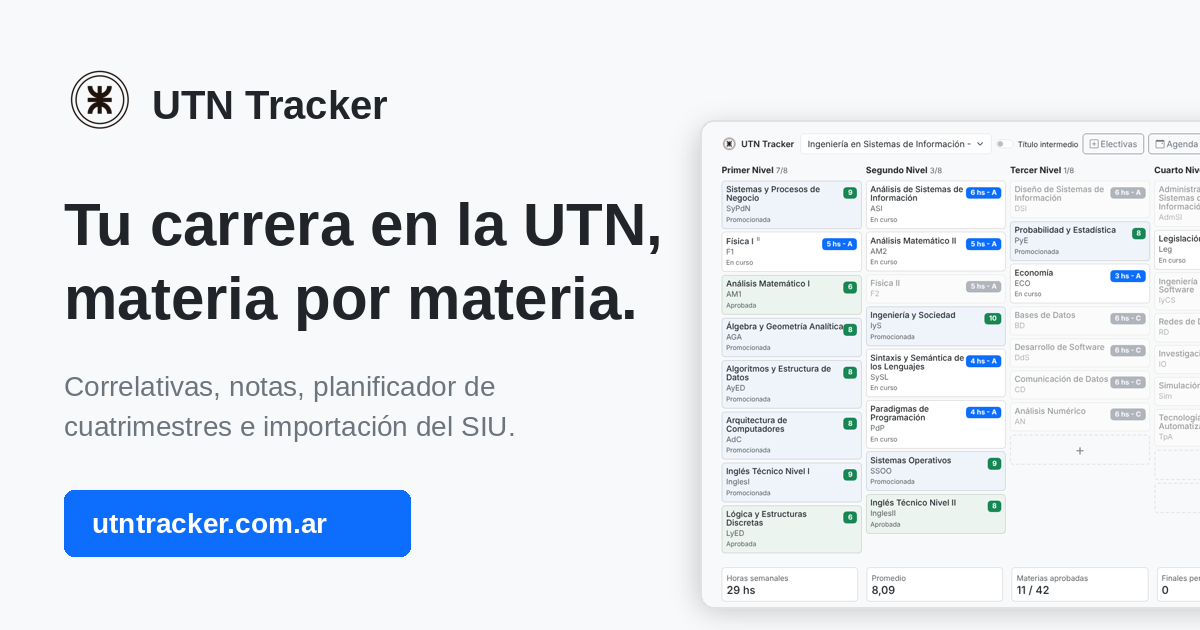
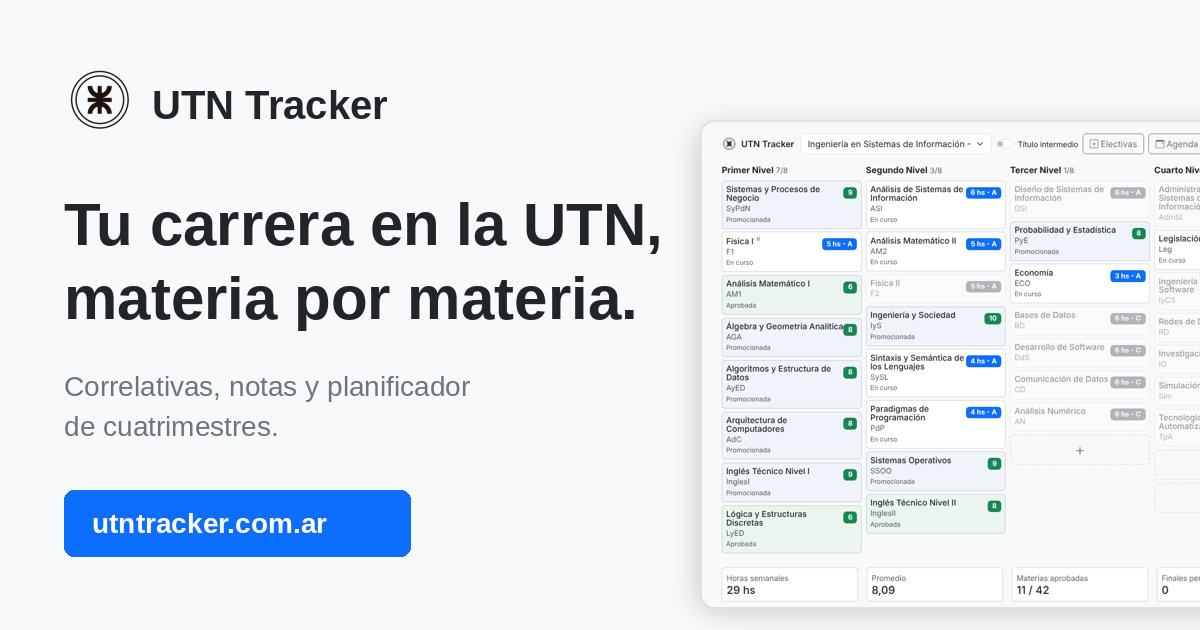
Landing: sacar la importación del SIU como función destacada
Claude-Session: https://claude.ai/code/session_01Rmz4YoQs6Pi6JX4twLjFxo

Changed region(s): [[0.0617, 0.6635, 0.4317, 0.6937], [0.2467, 0.6032, 0.4317, 0.6333]]

diff --git a/site/index.html b/site/index.html
@@ -4,7 +4,7 @@
 		<meta charset="utf-8">
 		<meta name="viewport" content="width=device-width, initial-scale=1">
 		<title>UTN Tracker · Seguí tu carrera en la UTN: correlativas, notas y planificador</title>
-		<meta name="description" content="Organizá tu carrera en la UTN: importá tu historia académica del SIU Guaraní, mirá qué materias podés cursar según tus correlativas, planificá los próximos cuatrimestres y calculá cuándo te recibís. Gratis.">
+		<meta name="description" content="Organizá tu carrera en la UTN: cargá tus notas, mirá qué materias podés cursar según tus correlativas, planificá los próximos cuatrimestres y calculá cuándo te recibís. Gratis.">
 		<link rel="canonical" href="https://utntracker.com.ar/">
 		<meta name="color-scheme" content="light dark">
 		<meta name="theme-color" content="#f8f9fa" media="(prefers-color-scheme: light)">
@@ -16,7 +16,7 @@
 		<meta property="og:locale" content="es_AR">
 		<meta property="og:url" content="https://utntracker.com.ar/">
 		<meta property="og:title" content="UTN Tracker · Tu carrera en la UTN, materia por materia">
-		<meta property="og:description" content="Importá tu historia académica del SIU, mirá tus correlativas y planificá cuándo te recibís. Gratis.">
+		<meta property="og:description" content="Mirá tus correlativas, planificá los próximos cuatrimestres y calculá cuándo te recibís. Gratis.">
 		<meta property="og:image" content="https://utntracker.com.ar/assets/img/og.png">
 		<meta property="og:image:width" content="1200">
 		<meta property="og:image:height" content="630">
@@ -44,7 +44,7 @@
 					"applicationCategory": "EducationalApplication",
 					"operatingSystem": "Web",
 					"inLanguage": "es-AR",
-					"description": "Panel para estudiantes de la UTN: correlativas, notas, planificador de cuatrimestres, horario y agenda de parciales, con importación de la historia académica del SIU Guaraní.",
+					"description": "Panel para estudiantes de la UTN: correlativas, notas, planificador de cuatrimestres, horario y agenda de parciales.",
 					"offers": { "@type": "Offer", "price": "0", "priceCurrency": "ARS" }
 				},
 				{
@@ -52,8 +52,7 @@
 					"mainEntity": [
 						{ "@type": "Question", "name": "¿UTN Tracker es gratis?", "acceptedAnswer": { "@type": "Answer", "text": "Sí. Entrás con tu cuenta de Google y listo." } },
 						{ "@type": "Question", "name": "¿Es una app oficial de la UTN?", "acceptedAnswer": { "@type": "Answer", "text": "No. Es un proyecto independiente hecho por estudiantes. Tus notas oficiales siguen siendo las del SIU Guaraní." } },
-						{ "@type": "Question", "name": "¿Qué pasa con mi historia académica del SIU?", "acceptedAnswer": { "@type": "Answer", "text": "El PDF se lee en tu navegador y no se sube a ningún servidor. Solo se guardan las materias y notas que confirmás." } },
-						{ "@type": "Question", "name": "¿Sirve para cualquier facultad regional?", "acceptedAnswer": { "@type": "Answer", "text": "Los planes de estudio son los mismos en todas las regionales. La importación del SIU está probada con el autogestión de la FRBA." } },
+						{ "@type": "Question", "name": "¿Sirve para cualquier facultad regional?", "acceptedAnswer": { "@type": "Answer", "text": "Los planes de estudio son los mismos en todas las regionales." } },
 						{ "@type": "Question", "name": "¿Cómo sabe qué materias puedo cursar?", "acceptedAnswer": { "@type": "Answer", "text": "Usa las correlativas del plan de estudios. Con lo que tenés aprobado y regularizado, marca qué materias podés cursar el próximo cuatrimestre." } },
 						{ "@type": "Question", "name": "¿Puedo compartir mi progreso?", "acceptedAnswer": { "@type": "Answer", "text": "Sí. Podés activar un perfil público con un link para compartir. Viene apagado." } }
 					]
@@ -82,7 +81,7 @@
 					<div class="col-lg-6 d-grid gap-3">
 						<span class="eyebrow">Para estudiantes de la UTN</span>
 						<h1>Tu carrera en la UTN, materia por materia.</h1>
-						<p class="lead text-body-secondary mb-1">Cargá tu historia académica del SIU en un minuto y mirá qué tenés aprobado, qué podés cursar según tus correlativas y cuándo te recibís si seguís a este ritmo.</p>
+						<p class="lead text-body-secondary mb-1">Cargá tus materias y notas, y mirá qué tenés aprobado, qué podés cursar según tus correlativas y cuándo te recibís si seguís a este ritmo.</p>
 						<div class="d-flex flex-wrap gap-2">
 							<a class="btn btn-primary btn-lg" href="https://app.utntracker.com.ar"><i class="bi bi-google me-2" aria-hidden="true"></i>Entrar con Google</a>
 							<a class="btn btn-outline-secondary btn-lg" href="#funciones">Ver cómo funciona</a>
@@ -121,29 +120,6 @@
 				</div>
 			</section>
 
-			<section class="section section-band" aria-labelledby="siu-titulo">
-				<div class="container">
-					<div class="row g-4 g-lg-5 align-items-center">
-						<div class="col-lg-5 d-grid gap-3">
-							<span class="eyebrow">Importar del SIU Guaraní</span>
-							<h2 id="siu-titulo" class="fw-bold">No cargues las notas a mano.</h2>
-							<ol class="steps">
-								<li><p class="mb-0"><strong>Descargá tu historia académica</strong> desde el autogestión del SIU, con el filtro en «Todos».</p></li>
-								<li><p class="mb-0"><strong>Subí el PDF</strong> a UTN Tracker. Detecta las materias aprobadas, promocionadas, regularizadas y en curso, con sus notas y recursadas.</p></li>
-								<li><p class="mb-0"><strong>Revisá la vista previa</strong> y confirmá. Tu tablero queda armado.</p></li>
-							</ol>
-							<div class="alert alert-success d-flex gap-2 mb-0" role="note">
-								<i class="bi bi-shield-lock" aria-hidden="true"></i>
-								<div>El PDF se lee en tu navegador. No se sube a ningún servidor.</div>
-							</div>
-						</div>
-						<div class="col-lg-7">
-							<figure class="shot"><img src="/assets/img/siu.webp" width="1200" height="771" loading="lazy" alt="Vista previa de la importación del SIU, con las materias detectadas y su estado antes de confirmar"></figure>
-						</div>
-					</div>
-				</div>
-			</section>
-
 			<section class="section" id="funciones" aria-labelledby="funciones-titulo">
 				<div class="container">
 					<div class="mb-4" style="max-width: 44rem">
@@ -158,7 +134,7 @@
 							<h3 class="h4 fw-semibold mb-0">Correlativas y estado de cada materia</h3>
 							<p class="text-body-secondary mb-0">Cargá parciales, recuperatorios, TPs y finales. UTN Tracker calcula solo si la materia queda promocionada, regularizada o aprobada, y te muestra qué podés cursar el próximo cuatrimestre.</p>
 						</div>
-						<div class="col-lg-7"><figure class="shot"><img src="/assets/img/tablero.webp" width="1200" height="771" loading="lazy" alt="Tablero con las materias de Ingeniería en Sistemas K23 por nivel, con horas semanales, promedio y materias aprobadas"></figure></div>
+						<div class="col-lg-7"><figure class="shot"><img src="/assets/img/tablero.webp" width="1200" height="696" loading="lazy" alt="Tablero con las materias de Ingeniería en Sistemas K23 por nivel, con horas semanales, promedio y materias aprobadas"></figure></div>
 					</article>
 
 					<article class="feature row g-4 align-items-center">
@@ -174,7 +150,7 @@
 						<div class="col-lg-5 d-grid gap-2">
 							<span class="feature-icon"><i class="bi bi-clock" aria-hidden="true"></i></span>
 							<h3 class="h4 fw-semibold mb-0">Horario semanal</h3>
-							<p class="text-body-secondary mb-0">Tus clases en una grilla de lunes a sábado. Cargalas a mano o importá el comprobante de inscripción a cursada del SIU.</p>
+							<p class="text-body-secondary mb-0">Tus clases en una grilla de lunes a sábado.</p>
 						</div>
 						<div class="col-lg-7"><figure class="shot"><picture><source srcset="/assets/img/horario-oscuro.webp" media="(prefers-color-scheme: dark)"><img src="/assets/img/horario.webp" width="1200" height="806" loading="lazy" alt="Grilla del horario semanal con las materias en curso"></picture></figure></div>
 					</article>
@@ -240,8 +216,7 @@
 							<div class="faq">
 								<details open><summary>¿Es gratis?</summary><p>Sí. Entrás con tu cuenta de Google y listo.</p></details>
 								<details><summary>¿Es una app oficial de la UTN?</summary><p>No. Es un proyecto independiente hecho por estudiantes. Tus notas oficiales siguen siendo las del SIU Guaraní.</p></details>
-								<details><summary>¿Qué pasa con mi historia académica del SIU?</summary><p>El PDF se lee en tu navegador y no se sube a ningún servidor. Solo se guardan las materias y notas que confirmás, asociadas a tu cuenta.</p></details>
-								<details><summary>¿Sirve para cualquier facultad regional?</summary><p>Los planes de estudio son los mismos en todas las regionales. La importación del SIU está probada con el autogestión de la FRBA.</p></details>
+								<details><summary>¿Sirve para cualquier facultad regional?</summary><p>Los planes de estudio son los mismos en todas las regionales.</p></details>
 								<details><summary>¿Cómo sabe qué materias puedo cursar?</summary><p>Usa las correlativas del plan de estudios. Con lo que tenés aprobado y regularizado, marca qué materias podés cursar el próximo cuatrimestre.</p></details>
 								<details><summary>¿Puedo compartir mi progreso?</summary><p>Sí. Podés activar un perfil público con un link para compartir. Viene apagado.</p></details>
 							</div>

diff --git a/site/assets/css/site.css b/site/assets/css/site.css
@@ -73,15 +73,6 @@ h1,h2,h3{ text-wrap: balance; }
 .shot{ margin: 0; border: 1px solid var(--bs-border-color); border-radius: var(--bs-border-radius-lg); overflow: hidden; box-shadow: 0 18px 40px -18px var(--utn-shadow); background: var(--bs-body-bg); }
 .shot img{ display: block; width: 100%; height: auto; }
 
-.steps{ list-style: none; padding: 0; margin: 0; display: grid; gap: 1rem; counter-reset: paso; }
-.steps li{ display: grid; grid-template-columns: 2.25rem minmax(0, 1fr); gap: 0.85rem; counter-increment: paso; }
-.steps li::before{
-  content: counter(paso);
-  width: 2.25rem; height: 2.25rem; border-radius: 50%;
-  display: grid; place-items: center; font-weight: 600;
-  background: var(--bs-primary-bg-subtle); color: var(--bs-primary-text-emphasis);
-}
-
 .feature{ padding-block: 2rem; border-top: 1px solid var(--bs-border-color); }
 .feature-icon{
   width: 2.5rem; height: 2.5rem; border-radius: var(--bs-border-radius);
